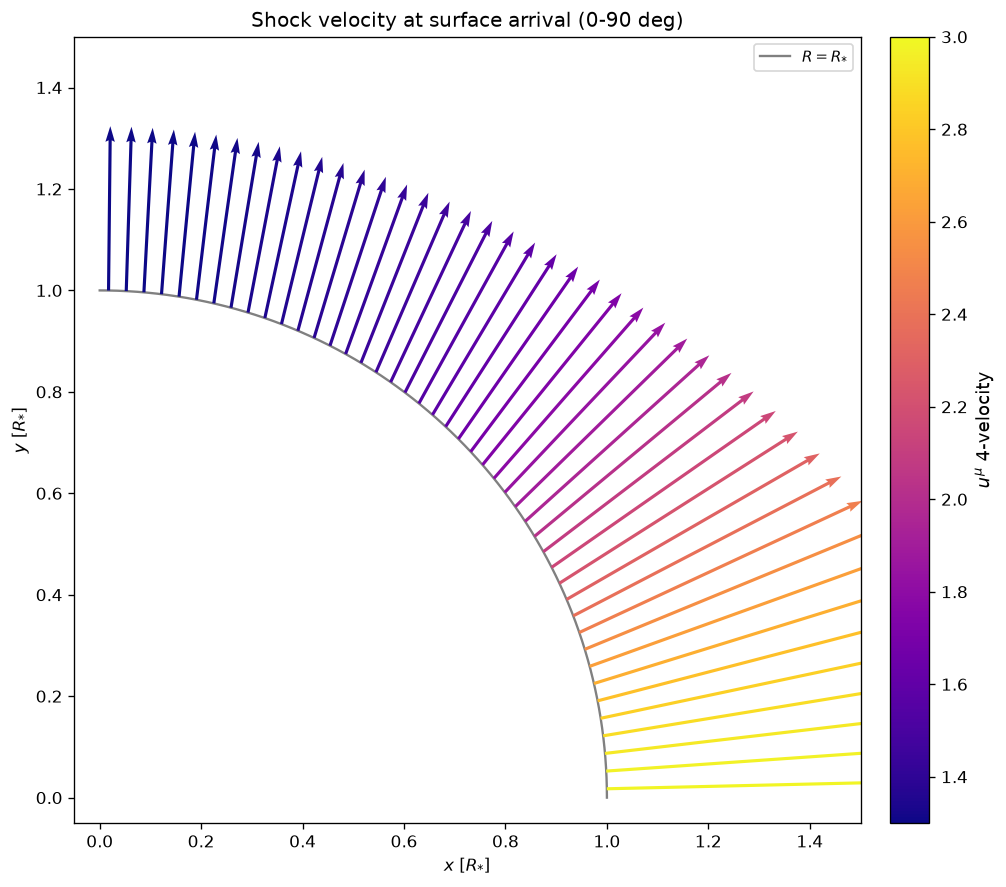
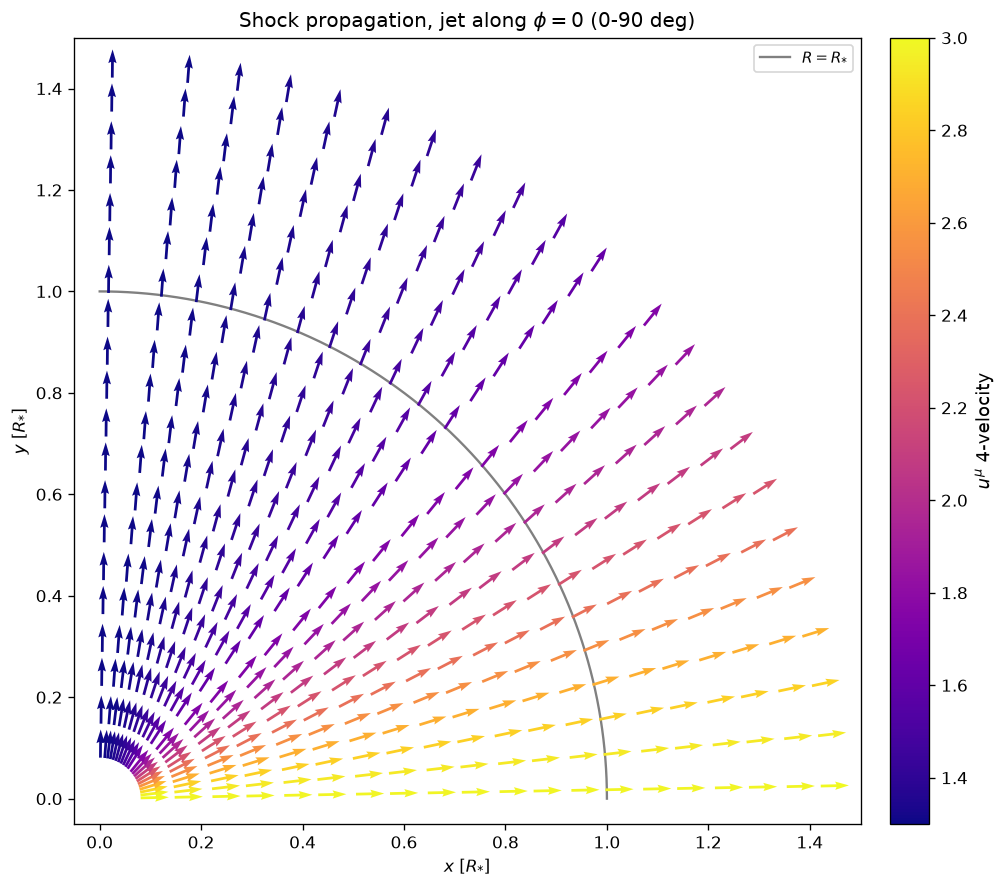
Add full-field quiver style in the Cartesian layout
The Cartesian layout added previously pinned arrows to the R = R_* arc,
which showed only surface arrival. This adds plot_field_quiver(), keeping
that layout - x/y axes in R_*, theta counter-clockwise from +x, grey R = R_*
arc, four-velocity colouring - but sampling the eikonal field across the
whole quadrant. It is now the default --style field; --style surface and
--style wedge remain.

Both Cartesian styles now share _setup_cartesian_ax() and _colour_values()
instead of duplicating the layout, and _draw_quiver() centralises the NaN
mask and colour normalisation.

Arrow length defaults per style: uniform for field, where scaling by
magnitude makes a dense grid collide, and magnitude-scaled for surface.
--uniform-length / --scale-by-magnitude override either.

Verified the two styles read the same field: at r = R_* the field-mode
components match surface_field() to 0.0, and the off-radial tilt runs
+0.3 to +10.2 deg across the quadrant, i.e. the +theta sweep holds
everywhere.

Claude-Session: https://claude.ai/code/session_01MKpxqyXBxez46Xe9DjNJX5

diff --git a/shock_quiver.py b/shock_quiver.py
@@ -8,10 +8,12 @@ eikonal relation to recover both the speed and the direction of the front:
 with grad T = (dT/dr, (1/r) dT/dphi) in polar coordinates. The front moves from
 early arrival times toward late ones, so +grad T is the propagation direction.
 
-Two figure styles:
-  'surface' - arrows rooted on the R = R_* arc, Cartesian axes, theta measured
-              counter-clockwise from +x, coloured by the four-velocity gamma*beta.
-  'wedge'   - the whole polar wedge, coloured by log10(v_sh / v_star).
+Three figure styles, all on the same eikonal field:
+  'field'   - arrows throughout the quadrant on Cartesian axes, theta measured
+              counter-clockwise from +x, coloured by the four-velocity gamma*beta
+              (default).
+  'surface' - the same layout, but arrows only where the front crosses R = R_*.
+  'wedge'   - polar wedge, coloured by log10(v_sh / v_star).
 
 Physical check: with the jet along phi = 0, arrival times rise toward the
 equator, so leaving the star the front sweeps toward increasing theta and
@@ -25,7 +27,8 @@ from scipy.ndimage import gaussian_filter
 
 __all__ = ['arrival_map_from_dt_track', 'arrival_map_from_shock_front',
            'eikonal_field', 'four_velocity', 'surface_field',
-           'tangential_check', 'plot_shock_quiver', 'plot_surface_quiver']
+           'tangential_check', 'plot_shock_quiver', 'plot_surface_quiver',
+           'plot_field_quiver']
 
 
 # ----------------------------------------------------------------------------
@@ -262,57 +265,21 @@ def tangential_check(phi, n_t, verbose=True):
     return frac
 
 
-def plot_surface_quiver(T, r_grid, phi_rad, *, r_star=1.0, sigma=3.0,
-                        phi_range=(0, 90), color='u4', v_star=1.0,
-                        clim=None, cmap='plasma', arrow_scale=4.0,
-                        uniform_length=False, xlim=(-0.05, 1.5),
-                        ylim=(-0.05, 1.5), title=None, ax=None, check=True):
-    """Shock velocity at surface arrival, drawn on Cartesian (x, y) axes.
-
-    theta runs counter-clockwise from +x, so phi_range=(0, 90) fills the first
-    quadrant. Arrows are rooted on the r = r_star arc and point along the front
-    normal; color is the four-velocity u = gamma*beta ('u4') or
-    log10(v_sh/v_star) ('logv').
-    """
-    phi, v, n_r, n_t = surface_field(T, r_grid, phi_rad, r_star=r_star,
-                                     sigma=sigma, phi_range=phi_range)
-    if check:
-        tangential_check(phi, n_t)
-
+def _colour_values(v, color, v_star):
+    """Scalar carried by the arrow colours, plus its colourbar label."""
     if color == 'u4':
-        C = four_velocity(v)
-        clabel = r'$u^{\mu}$ 4-velocity'
-    elif color == 'logv':
+        return four_velocity(v), r'$u^{\mu}$ 4-velocity'
+    if color == 'logv':
         with np.errstate(invalid='ignore', divide='ignore'):
-            C = np.log10(v / v_star)
-        clabel = r'$\log\left(v_{sh}/v_{*}\right)$'
-    else:
-        raise ValueError("color must be 'u4' or 'logv'")
+            return np.log10(v / v_star), r'$\log\left(v_{sh}/v_{*}\right)$'
+    raise ValueError("color must be 'u4' or 'logv'")
 
-    # roots on the arc, direction from the polar unit vectors
-    x, y = r_star * np.cos(phi), r_star * np.sin(phi)
-    ux = n_r * np.cos(phi) - n_t * np.sin(phi)
-    uy = n_r * np.sin(phi) + n_t * np.cos(phi)
-    mag = np.ones_like(C) if uniform_length else C
-    ux, uy = ux * mag, uy * mag
 
-    ok = np.isfinite(C) & np.isfinite(ux) & np.isfinite(uy)
-    if not ok.any():
-        raise ValueError('no finite arrows at the surface; check r_star/sigma')
-
-    if ax is None:
-        _, ax = plt.subplots(figsize=(9, 7.5))
-
+def _setup_cartesian_ax(ax, r_star, phi_range, xlim, ylim, title):
+    """Equal-aspect x/y axes in R_*, with the grey R = R_* arc."""
     arc = np.linspace(phi_range[0], phi_range[1], 400) * np.pi / 180.0
     ax.plot(r_star * np.cos(arc), r_star * np.sin(arc), color='grey', lw=1.4,
             label=r'$R = R_{*}$', zorder=1)
-
-    lo, hi = clim if clim is not None else (np.nanmin(C), np.nanmax(C))
-    q = ax.quiver(x[ok], y[ok], ux[ok], uy[ok], C[ok],
-                  cmap=cmap, norm=mcolors.Normalize(lo, hi),
-                  angles='xy', scale_units='xy', scale=arrow_scale,
-                  width=0.004, zorder=2)
-
     ax.set_xlim(*xlim)
     ax.set_ylim(*ylim)
     ax.set_aspect('equal')
@@ -321,9 +288,107 @@ def plot_surface_quiver(T, r_grid, phi_rad, *, r_star=1.0, sigma=3.0,
     ax.legend(loc='upper right', fontsize=9)
     if title:
         ax.set_title(title)
+    return ax
 
+
+def _draw_quiver(ax, x, y, ux, uy, C, clim, cmap, arrow_scale, clabel, width):
+    ok = np.isfinite(C) & np.isfinite(ux) & np.isfinite(uy)
+    if not np.any(ok):
+        raise ValueError('no finite arrows to draw; check r_star / sigma / clim')
+    lo, hi = clim if clim is not None else (np.nanmin(C), np.nanmax(C))
+    q = ax.quiver(x[ok], y[ok], ux[ok], uy[ok], C[ok],
+                  cmap=cmap, norm=mcolors.Normalize(lo, hi),
+                  angles='xy', scale_units='xy', scale=arrow_scale,
+                  width=width, zorder=2)
     cb = plt.colorbar(q, ax=ax, fraction=0.045, pad=0.03)
     cb.set_label(clabel, fontsize=11)
+    return q
+
+
+def plot_surface_quiver(T, r_grid, phi_rad, *, r_star=1.0, sigma=3.0,
+                        phi_range=(0, 90), color='u4', v_star=1.0,
+                        clim=None, cmap='plasma', arrow_scale=4.0,
+                        uniform_length=False, xlim=(-0.05, 1.5),
+                        ylim=(-0.05, 1.5), title=None, ax=None, check=True):
+    """Shock velocity where the front crosses r = r_star, on Cartesian axes.
+
+    theta runs counter-clockwise from +x, so phi_range=(0, 90) fills the first
+    quadrant. Arrows are rooted on the arc and point along the front normal;
+    colour is the four-velocity u = gamma*beta ('u4') or log10(v/v_star)
+    ('logv'). Arrow length tracks the colour unless uniform_length.
+    """
+    phi, v, n_r, n_t = surface_field(T, r_grid, phi_rad, r_star=r_star,
+                                     sigma=sigma, phi_range=phi_range)
+    if check:
+        tangential_check(phi, n_t)
+    C, clabel = _colour_values(v, color, v_star)
+
+    x, y = r_star * np.cos(phi), r_star * np.sin(phi)
+    ux = n_r * np.cos(phi) - n_t * np.sin(phi)
+    uy = n_r * np.sin(phi) + n_t * np.cos(phi)
+    mag = np.ones_like(C) if uniform_length else C
+    ux, uy = ux * mag, uy * mag
+
+    if ax is None:
+        _, ax = plt.subplots(figsize=(9, 7.5))
+    _setup_cartesian_ax(ax, r_star, phi_range, xlim, ylim, title)
+    q = _draw_quiver(ax, x, y, ux, uy, C, clim, cmap, arrow_scale, clabel, 0.004)
+    return ax, q
+
+
+def plot_field_quiver(T, r_grid, phi_rad, *, r_star=1.0, sigma=3.0,
+                      phi_range=(0, 90), color='u4', v_star=1.0, clim=None,
+                      cmap='plasma', arrow_scale=18.0, uniform_length=True,
+                      n_r_arrows=26, n_phi_arrows=26, rmin=None, rmax=None,
+                      xlim=(-0.05, 1.5), ylim=(-0.05, 1.5), title=None,
+                      ax=None, check=True):
+    """Shock propagation across the whole quadrant, in the same Cartesian layout.
+
+    Same axes, arc and colouring as plot_surface_quiver, but the arrows sample
+    the full (r, phi) field rather than sitting on the r = r_star arc. Length is
+    uniform by default so a dense field stays legible; the colour carries the
+    magnitude.
+    """
+    v, n_r, n_t = eikonal_field(T, r_grid, phi_rad, sigma=sigma)
+
+    keep = np.ones(r_grid.size, dtype=bool)
+    if rmin is not None:
+        keep &= r_grid >= rmin
+    if rmax is not None:
+        keep &= r_grid <= rmax
+    r_idx = np.nonzero(keep)[0]
+    if r_idx.size == 0:
+        raise ValueError(f'no radii in [{rmin}, {rmax}]')
+    ri = r_idx[np.linspace(0, r_idx.size - 1,
+                           min(n_r_arrows, r_idx.size)).astype(int)]
+
+    phi_deg_all = np.rad2deg(phi_rad)
+    in_wedge = np.nonzero(
+        (phi_deg_all >= phi_range[0]) & (phi_deg_all <= phi_range[1]))[0]
+    if in_wedge.size == 0:
+        raise ValueError(f'no angles in phi_range={phi_range}')
+    pj = in_wedge[np.linspace(0, in_wedge.size - 1,
+                              min(n_phi_arrows, in_wedge.size)).astype(int)]
+
+    if check:
+        i_s = int(np.argmin(np.abs(r_grid - r_star)))
+        tangential_check(phi_rad[in_wedge], n_t[i_s, in_wedge])
+
+    R, PHI = np.meshgrid(r_grid[ri], phi_rad[pj], indexing='ij')
+    sub = np.ix_(ri, pj)
+    V, NR, NT = v[sub], n_r[sub], n_t[sub]
+    C, clabel = _colour_values(V, color, v_star)
+
+    x, y = R * np.cos(PHI), R * np.sin(PHI)
+    ux = NR * np.cos(PHI) - NT * np.sin(PHI)
+    uy = NR * np.sin(PHI) + NT * np.cos(PHI)
+    mag = np.ones_like(C) if uniform_length else C
+    ux, uy = ux * mag, uy * mag
+
+    if ax is None:
+        _, ax = plt.subplots(figsize=(9, 7.5))
+    _setup_cartesian_ax(ax, r_star, phi_range, xlim, ylim, title)
+    q = _draw_quiver(ax, x, y, ux, uy, C, clim, cmap, arrow_scale, clabel, 0.0035)
     return ax, q
 
 
@@ -392,7 +457,7 @@ def main(argv=None):
                         'default 1.0 = code units, i.e. log10(v_sh/c)')
     p.add_argument('--phi-range', type=float, nargs=2, default=[0, 90],
                    metavar=('LO', 'HI'), help='wedge in degrees (default 0 90)')
-    p.add_argument('--rmax', type=float, default=1.5)
+    p.add_argument('--rmax', type=float, default=None)
     p.add_argument('--rticks', type=float, nargs='*', default=None)
     p.add_argument('--t-range', type=float, nargs=2, default=None, metavar=('T0', 'T1'))
     p.add_argument('--sigma', type=float, default=3.0,
@@ -402,15 +467,23 @@ def main(argv=None):
     p.add_argument('--clim', type=float, nargs=2, default=None,
                    metavar=('LO', 'HI'))
     p.add_argument('--cmap', default=None, help='matplotlib colormap name')
-    p.add_argument('--style', choices=['surface', 'wedge'], default='surface',
-                   help="'surface': arrows on the R=R_* arc, Cartesian axes "
-                        "(default); 'wedge': polar field over the whole wedge")
+    p.add_argument('--style', choices=['field', 'surface', 'wedge'],
+                   default='field',
+                   help="'field': arrows throughout the quadrant, Cartesian "
+                        "axes (default); 'surface': only on the R=R_* arc; "
+                        "'wedge': polar")
     p.add_argument('--color', choices=['u4', 'logv'], default='u4',
                    help="'u4': four-velocity gamma*beta; 'logv': log10(v/v_star)")
     p.add_argument('--r-star', type=float, default=1.0, dest='r_star')
-    p.add_argument('--arrow-scale', type=float, default=4.0, dest='arrow_scale',
+    p.add_argument('--arrow-scale', type=float, default=None, dest='arrow_scale',
                    help='smaller = longer arrows (data units per unit magnitude)')
-    p.add_argument('--uniform-length', action='store_true', dest='uniform_length')
+    p.add_argument('--uniform-length', action='store_true', default=None,
+                   dest='uniform_length',
+                   help='draw every arrow the same length (default for --style field)')
+    p.add_argument('--scale-by-magnitude', action='store_false',
+                   dest='uniform_length',
+                   help='arrow length tracks the colour (default for --style surface)')
+    p.add_argument('--rmin', type=float, default=None)
     p.add_argument('--scale-by-speed', action='store_true')
     p.add_argument('--title', default=None)
     p.add_argument('--dpi', type=int, default=150)
@@ -420,7 +493,11 @@ def main(argv=None):
     if a.selftest:
         return _selftest()
     if a.cmap is None:
-        a.cmap = 'plasma' if a.style == 'surface' else 'turbo'
+        a.cmap = 'turbo' if a.style == 'wedge' else 'plasma'
+    if a.uniform_length is None:
+        a.uniform_length = (a.style == 'field')
+    if a.arrow_scale is None:
+        a.arrow_scale = 18.0 if a.style == 'field' else 4.0
     if not a.csv:
         p.error('csv is required (or pass --selftest)')
 
@@ -434,7 +511,16 @@ def main(argv=None):
           f'({np.isfinite(T).mean():.1%} of cells shocked), '
           f'r [{r_grid.min():.3f}, {r_grid.max():.3f}]')
 
-    if a.style == 'surface':
+    if a.style == 'field':
+        _, ax = plt.subplots(figsize=(9, 7.5))
+        plot_field_quiver(
+            T, r_grid, phi_rad, r_star=a.r_star, sigma=a.sigma,
+            phi_range=tuple(a.phi_range), color=a.color, v_star=a.v_star,
+            clim=a.clim, cmap=a.cmap, arrow_scale=a.arrow_scale,
+            uniform_length=a.uniform_length, rmin=a.rmin, rmax=a.rmax,
+            n_r_arrows=a.arrows[0], n_phi_arrows=a.arrows[1],
+            title=a.title, ax=ax)
+    elif a.style == 'surface':
         _, ax = plt.subplots(figsize=(9, 7.5))
         plot_surface_quiver(
             T, r_grid, phi_rad, r_star=a.r_star, sigma=a.sigma,
@@ -445,7 +531,7 @@ def main(argv=None):
         _, ax = plt.subplots(subplot_kw={'projection': 'polar'}, figsize=(7, 6.5))
         plot_shock_quiver(
             T, r_grid, phi_rad, v_star=a.v_star, phi_range=tuple(a.phi_range),
-            rmax=a.rmax, rticks=a.rticks, sigma=a.sigma,
+            rmax=a.rmax if a.rmax else 1.5, rticks=a.rticks, sigma=a.sigma,
             n_r_arrows=a.arrows[0], n_phi_arrows=a.arrows[1],
             vmin=a.clim[0] if a.clim else -0.5,
             vmax=a.clim[1] if a.clim else 1.5,
